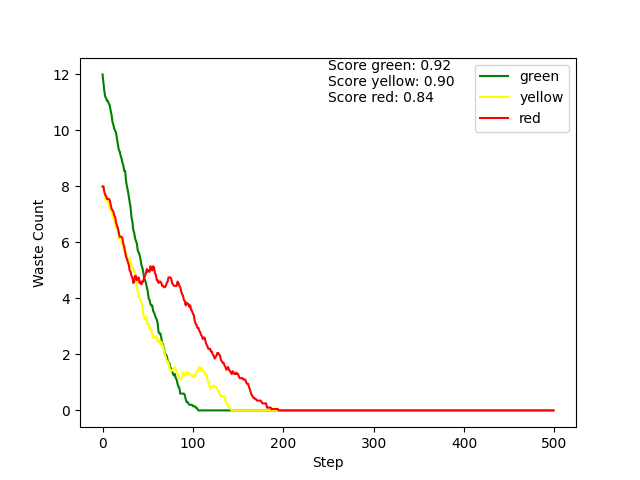
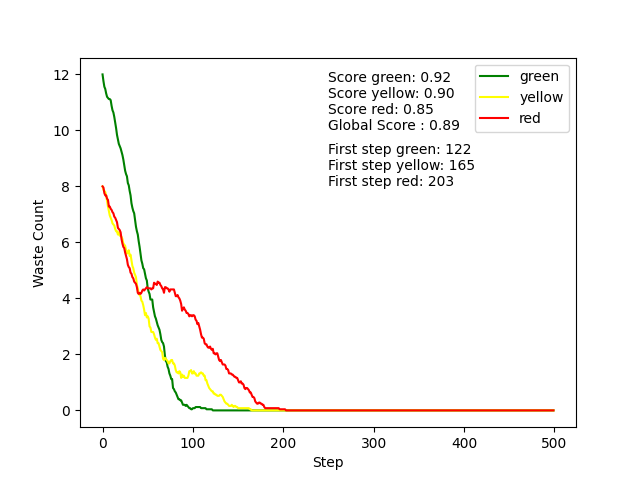
update readme with new graphs

Changed region(s): [[0.5, 0.125, 0.75, 0.4062], [0.1562, 0.3125, 0.4375, 0.875], [0.1562, 0.1875, 0.1875, 0.3125]]

diff --git a/agents.py b/agents.py
@@ -511,12 +511,16 @@ class GreenAgent(RobotAgent):
             if len(self.knowledge["carried_by_others"][self.color_to_gather][pos]) == 0
         ]
 
+        prio1, prio2 = [], []
+
         x, y = self.get_pos()
         if self.knowledge["carried"] == [self.color_to_gather]:
             prio1.append((x, y))
 
         elif len(self.knowledge["carried"]) == 0:
             prio2.append((x, y))
+
+        
 
         attributions, targets = self.attribution(prio1, targets)
         attributions, targets = self.attribution(prio2, targets, attributions)
@@ -560,6 +564,8 @@ class GreenAgent(RobotAgent):
             for pos in self.knowledge["carried_by_others"][self.color_to_gather]
             if len(self.knowledge["carried_by_others"][self.color_to_gather][pos]) == 0
         ]
+
+        prio1, prio2 = [], []
 
         x, y = self.get_pos()
         if self.knowledge["carried"] == [self.color_to_gather]:
@@ -893,6 +899,9 @@ class YellowAgent(RobotAgent):
             if len(self.knowledge["carried_by_others"][self.color_to_gather][pos]) == 0
         ]
 
+        prio1, prio2 = [], []
+
+
         x, y = self.get_pos()
         if self.knowledge["carried"] == [self.color_to_gather]:
             prio1.append((x, y))
@@ -940,6 +949,9 @@ class YellowAgent(RobotAgent):
             for pos in self.knowledge["carried_by_others"][self.color_to_gather]
             if len(self.knowledge["carried_by_others"][self.color_to_gather][pos]) == 0
         ]
+
+        prio1, prio2 = [], []
+
 
         x, y = self.get_pos()
         if self.knowledge["carried"] == [self.color_to_gather]:
@@ -1210,6 +1222,8 @@ class RedAgent(RobotAgent):
             if len(self.knowledge["carried_by_others"][self.color_to_gather][pos]) == 0
         ]
 
+        prio = []
+
         x, y = self.get_pos()
 
         if len(self.knowledge["carried"]) == 0:
@@ -1246,6 +1260,8 @@ class RedAgent(RobotAgent):
             for pos in self.knowledge["carried_by_others"][self.color_to_gather]
             if len(self.knowledge["carried_by_others"][self.color_to_gather][pos]) == 0
         ]
+
+        prio = []
 
         x, y = self.get_pos()
 

diff --git a/batch_simulation.py b/batch_simulation.py
@@ -79,7 +79,7 @@ if __name__ == "__main__":
     argparser.add_argument(
         "--n_sim",
         type=int,
-        default=50,
+        default=20,
         help="Number of simulations to run",
     )
     argparser.add_argument(
@@ -149,30 +149,24 @@ if __name__ == "__main__":
     plt.ylabel("Waste Count")
     plt.text(
         args.steps / 2,
-        max_wastes - 1,
-        f"Score green: {1 - auc_green:.2f}\nScore yellow: {1 - auc_yellow:.2f}\nScore red: {1 - auc_red:.2f}",
+        max_wastes - 2,
+        f"Score green: {1 - auc_green:.2f}\nScore yellow: {1 - auc_yellow:.2f}\nScore red: {1 - auc_red:.2f}\nGlobal Score : {1 -(auc_green + auc_yellow + auc_red)/3:.2f}",
     )
 
     # metric -> first step when the mean is 0
-    first_step_green = np.where(mean_waste_counts_green == 0)[0]
-    first_step_yellow = np.where(mean_waste_counts_yellow == 0)[0]
-    first_step_red = np.where(mean_waste_counts_red == 0)[0]
+    first_step_green = np.where(mean_waste_counts_green != 0)[0][-1] + 1
 
-    if len(first_step_green) > 0:
-        first_step_green = first_step_green[0]
-    else:
+    first_step_yellow = np.where(mean_waste_counts_yellow != 0)[0][-1] + 1
+    first_step_red = np.where(mean_waste_counts_red != 0)[0][-1] + 1
+
+    if first_step_green >= len(mean_waste_counts_green):
         first_step_green = "Not cleared"
 
-    if len(first_step_yellow) > 0:
-        first_step_yellow = first_step_yellow[0]
-    else:
+    if first_step_yellow >= len(mean_waste_counts_yellow):
         first_step_yellow = "Not cleared"
 
-    if len(first_step_red) > 0:
-        first_step_red = first_step_red[0]
-    else:
+    if first_step_red >= len(mean_waste_counts_red):
         first_step_red = "Not cleared"
-
     plt.text(
         args.steps / 2,
         max_wastes - 4,

diff --git a/README.md b/README.md
@@ -202,7 +202,7 @@ Thanks to the new communication system, every agent is immediately informed when
 
 We’ve updated our agents’ behavior so that they now release waste near the edge of the radioactive zone. They head directly to the border to dispose of their waste and then communicate the exact location to the next group of agents, who can retrieve it efficiently.
 
-This further improved the performance of our multi-agent system as the AUC scores used slightly increased :
+This further improved the performance of our multi-agent system as the AUC scores used slightly increased and the time needed to dispose of red wastes was reduced:
 
 ![batch_image_no_disposal](images/batch_image_no_disposal.png)
 
@@ -225,12 +225,3 @@ Each agent will send in their message their position and what they are carrying.
 This final upgrade in our heuristic gives the best results we've had so far, both for the AUC metric and the time needed to dispose of all wastes. 
 
 ![batch_image_paps](images/batch_image_paps.png)
-
-
-## Analysis of results
-
-As demonstrated in the previous section with the batch simulation, the implemented heuristic for robots far outperforms the random behaviour. The metric used (1 minus AUC of collected wastes) is doubled for yellow and red wastes. Such change is less obvious with green wastes because the implemented behaviour improves how all robots retain some kind of memory but also optimizes where the green robots will place the created yellow wastes for yellow robots to pick. Similarly, yellow robots place created red wastes in a specific region for red robots so it becomes easier for them to pick these wastes and bring them to the waste deposit.
-
-# TODO update Analysis of results
-maybe compare results when changing the number of agents/ grid size/ waste?
-rerun the graphs with old heuristics to have the first step metrics
